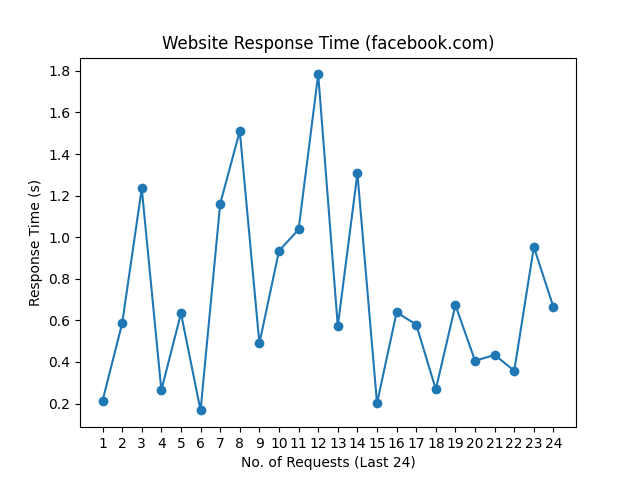
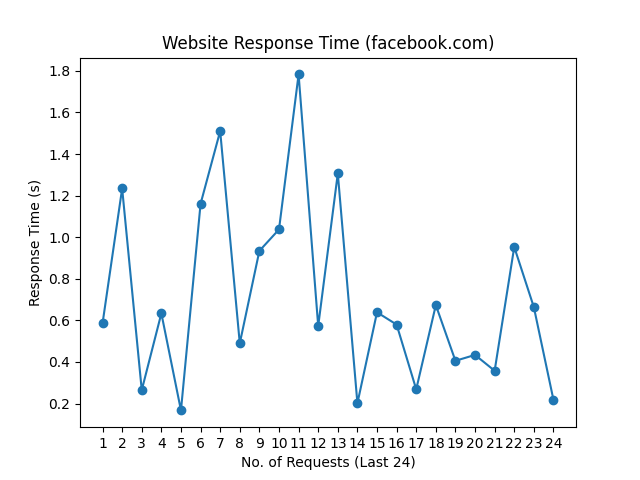
update README.md, history and graph

Changed region(s): [[0.1562, 0.125, 0.875, 0.875], [0.8438, 0.7188, 0.875, 0.8438]]

diff --git a/README.md b/README.md
@@ -1,10 +1,10 @@
 # Web Monitoring
 
-Last Checked: 12/04/2025 08:21
+Last Checked: 13/04/2025 08:47
 
 | Website | Response Time (s) | Status | Avg Uptime (%) |
 |---------|-------------------|--------|----------------|
 | www.thiswebsiteisdown.net | 0 <br> <img src="graph/thiswebsiteisdown.net.png" alt="Graph" width="200" height="200">  | ❌ Down | 0.00 |
-| www.netflix.com | 0.832495 <br> <img src="graph/netflix.com.png" alt="Graph" width="200" height="200">  | ✅ Up | 99.67 |
-| www.google.com | 0.077369 <br> <img src="graph/google.com.png" alt="Graph" width="200" height="200">  | ✅ Up | 100.00 |
-| www.facebook.com | 0.663344 <br> <img src="graph/facebook.com.png" alt="Graph" width="200" height="200">  | ✅ Up | 100.00 |
+| www.netflix.com | 0.798496 <br> <img src="graph/netflix.com.png" alt="Graph" width="200" height="200">  | ✅ Up | 99.67 |
+| www.google.com | 0.077467 <br> <img src="graph/google.com.png" alt="Graph" width="200" height="200">  | ✅ Up | 100.00 |
+| www.facebook.com | 0.217647 <br> <img src="graph/facebook.com.png" alt="Graph" width="200" height="200">  | ✅ Up | 100.00 |
